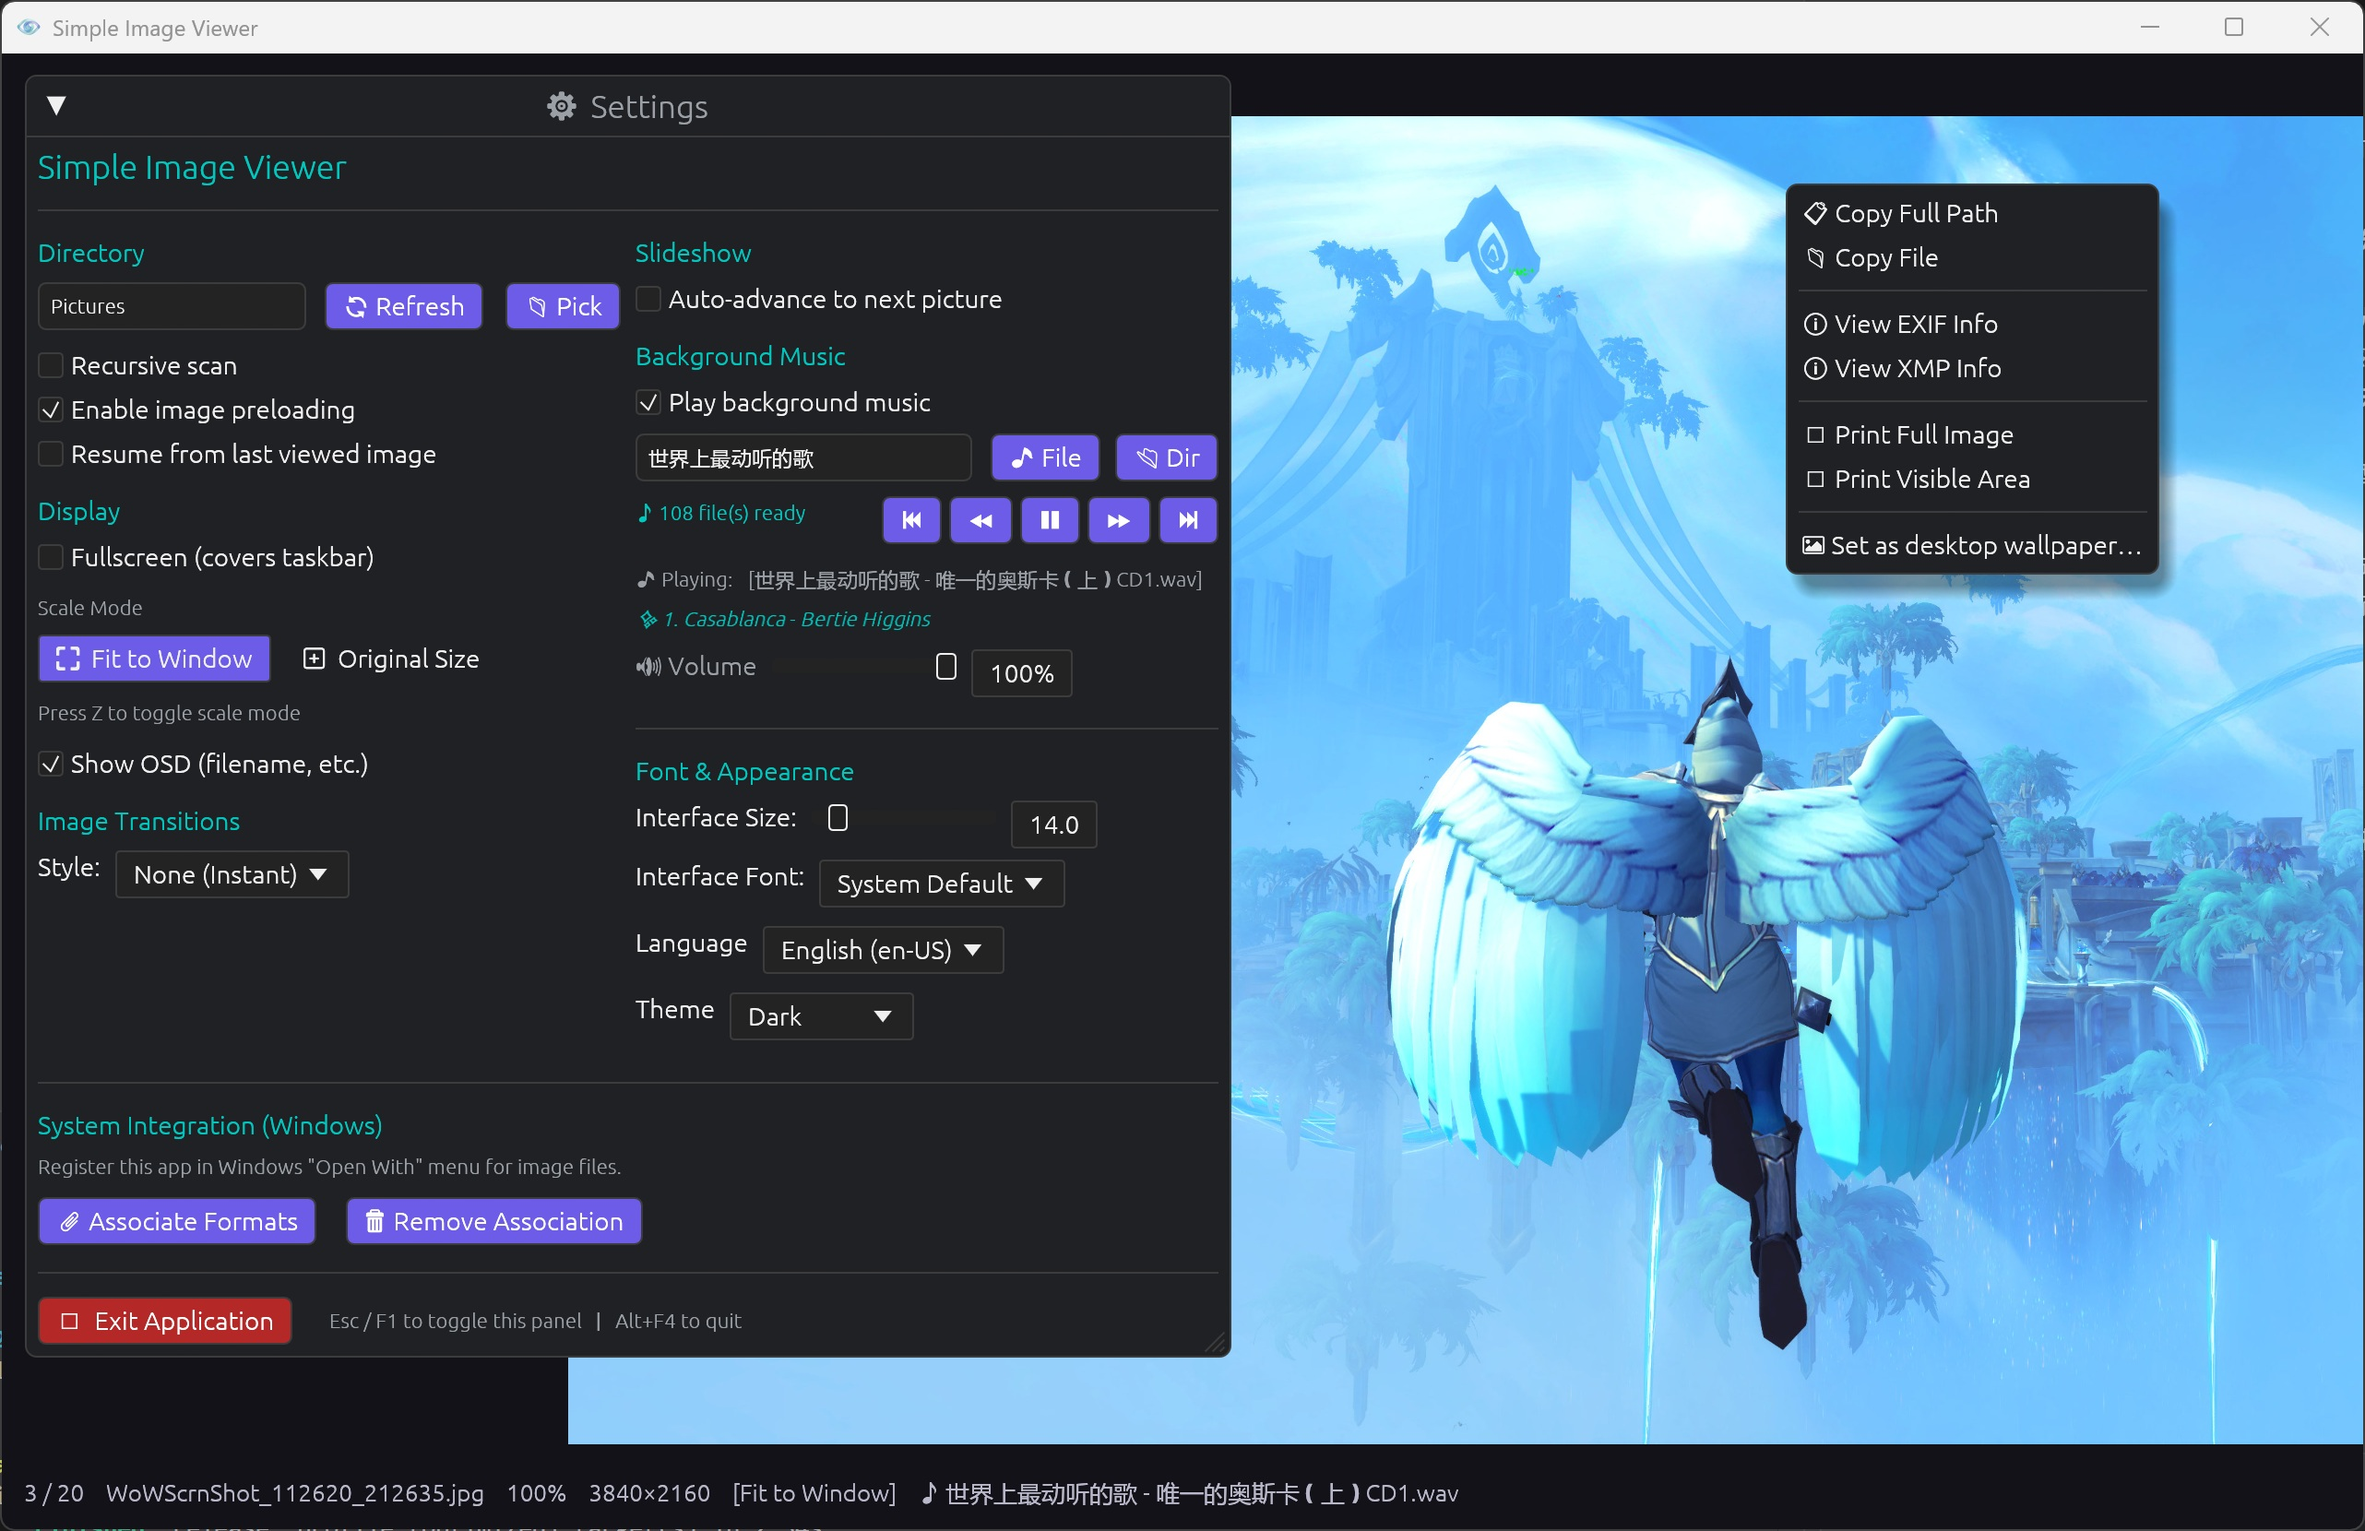
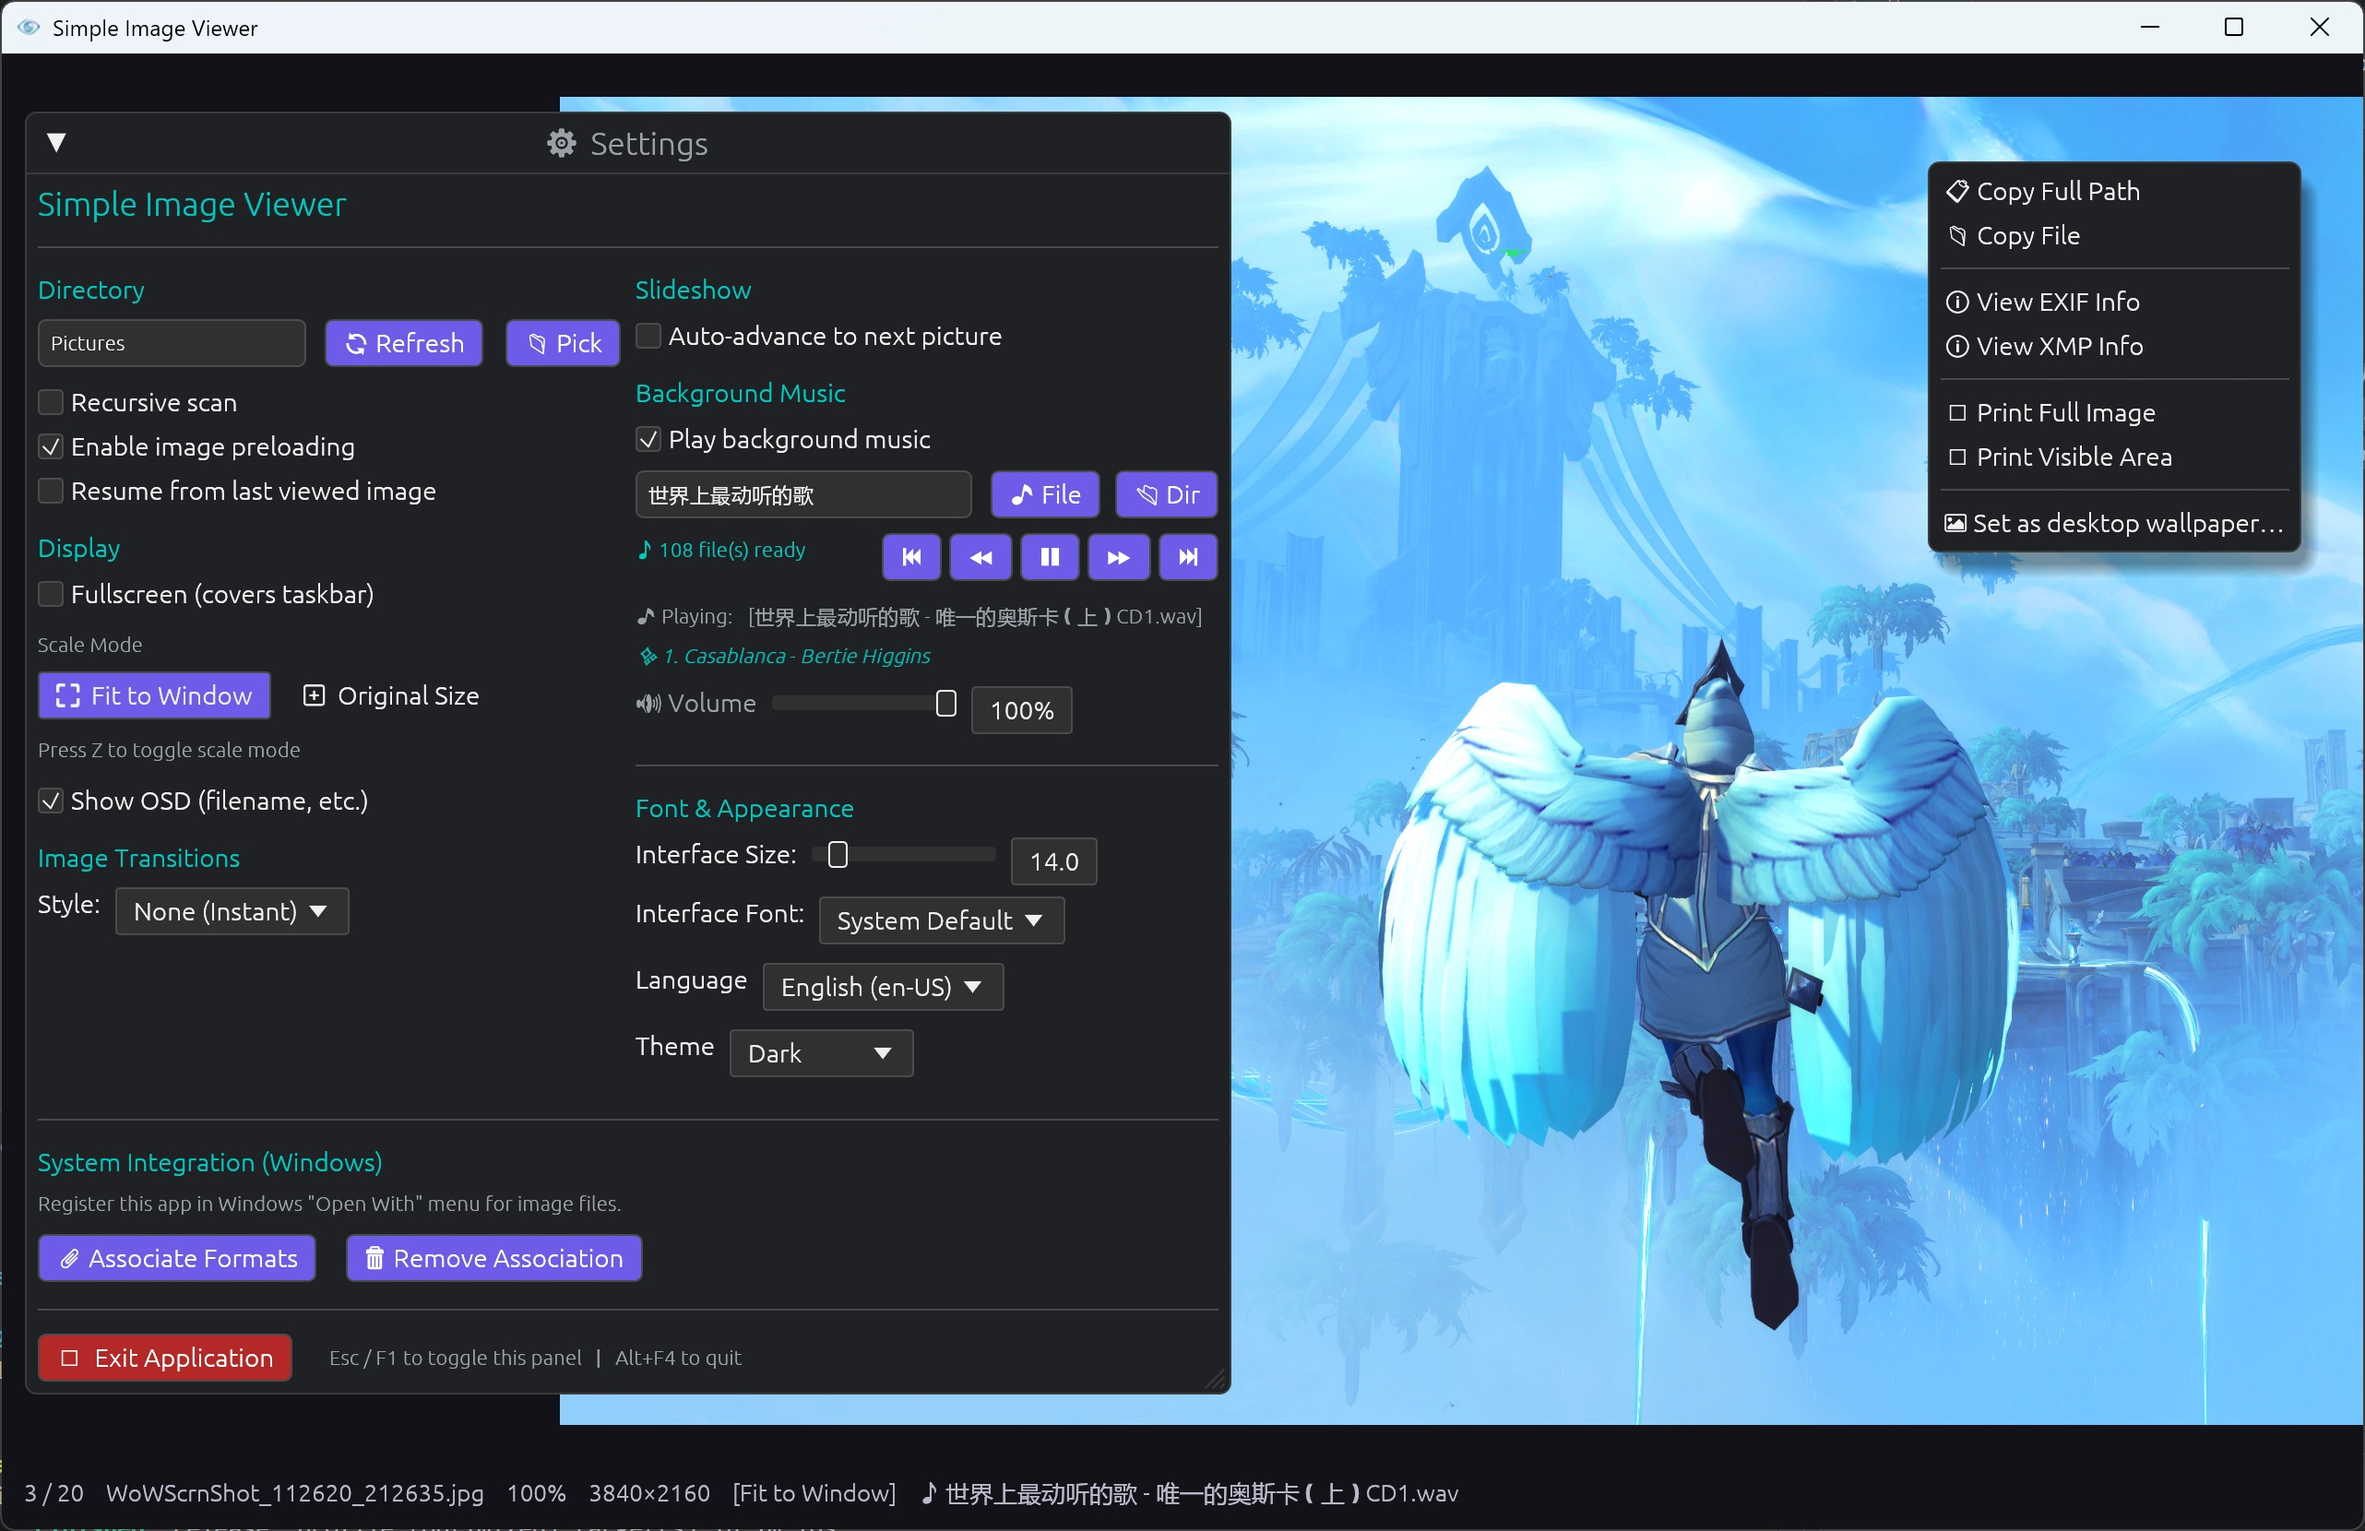
style: improve dark theme slider contrast and update screenshot

diff --git a/src/theme.rs b/src/theme.rs
@@ -85,13 +85,13 @@ impl ThemePalette {
         Self {
             canvas_bg:           Color32::from_rgb(18, 18, 24),
             panel_bg:            Color32::from_rgb(32, 33, 36),
-            widget_bg:           Color32::from_gray(35),
-            widget_hover:        Color32::from_gray(50),
-            widget_active:       Color32::from_gray(65),
-            extreme_bg:          Color32::from_gray(20),
+            widget_bg:           Color32::from_gray(48),
+            widget_hover:        Color32::from_gray(60),
+            widget_active:       Color32::from_gray(75),
+            extreme_bg:          Color32::from_gray(15),
 
-            widget_border:       Color32::from_gray(60),
-            widget_border_hover: Color32::from_gray(90),
+            widget_border:       Color32::from_gray(75),
+            widget_border_hover: Color32::from_gray(110),
 
             scrollbar_handle:    Color32::from_gray(100),
 
